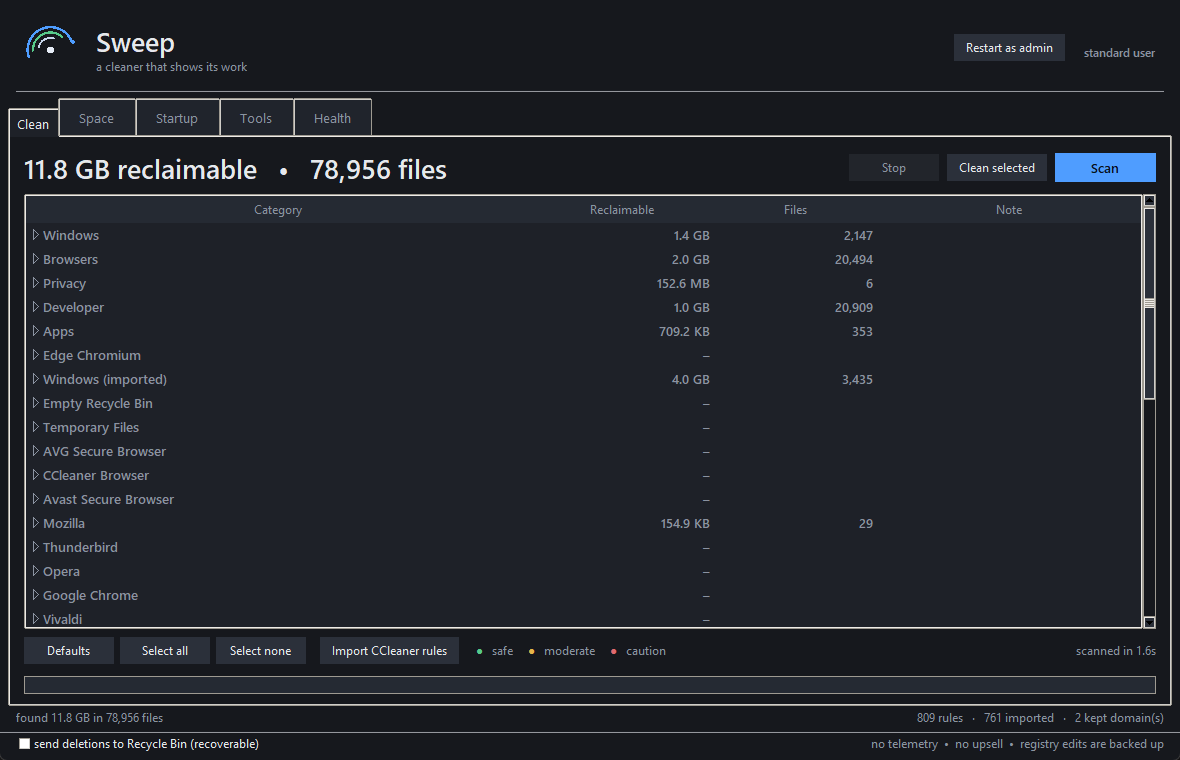
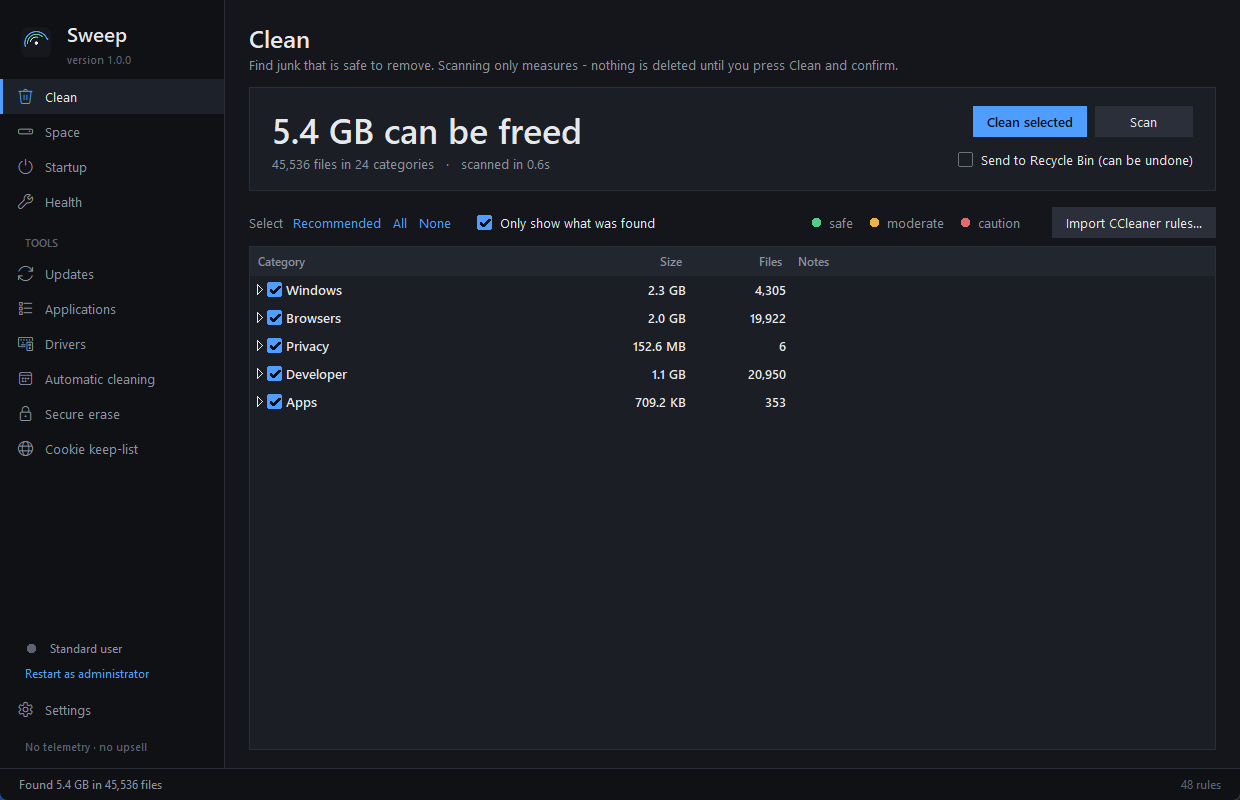
Document Sweep in the repository README and refresh its screenshots
The screenshots in Sweep/docs predated the interface redesign, so the public
README was showing a UI that no longer exists. Regenerated against the current
build (48 built-in rules, no imported ruleset).

README: Sweep added to the contents table, and the opening line no longer
implies the repository contains only the laundry projects.

diff --git a/README.md b/README.md
@@ -1,6 +1,6 @@
 # Ron's Stuff
 
-Personal laundry-monitor projects: MicroPython on Raspberry Pi Pico 2 W, Wi-Fi application updates, a shared Kauf indicator bulb, and Home Assistant integration.
+Personal laundry-monitor projects: MicroPython on Raspberry Pi Pico 2 W, Wi-Fi application updates, a shared Kauf indicator bulb, and Home Assistant integration. This repository also hosts **Sweep**, a separate Windows maintenance tool.
 
 This is a **sanitized public-source snapshot**, prepared September 13, 2026. It is separate from any private work repository. It contains no working Wi-Fi credentials, update tokens or installation addresses. The example settings must be customized before installation; do not upload these public files over an already working installation unchanged.
 
@@ -11,6 +11,11 @@ This is a **sanitized public-source snapshot**, prepared September 13, 2026. It 
 | [washer](washer/README.md) | Washer 6.0.0 application, A/B launcher, Windows Wi-Fi updater, configuration example and tests |
 | [dryer](dryer/README.md) | Dryer 5.0.0 application, A/B launcher, Windows Wi-Fi updater, configuration example and tests |
 | [shared-and-home-assistant](shared-and-home-assistant/README.md) | How the Picos, Shelly, shared Kauf bulb and HA relate; selected, sanitized HA configuration and dashboard |
+| [Sweep](Sweep/README.md) | Windows cleaner and laptop-health tool (Python/tkinter). Cleaning rules, Windows Update, drivers, secure erase, scheduled cleaning and health scoring, with a 134-test safety suite |
+
+**Sweep** is unrelated to the laundry projects — it is a general Windows maintenance
+tool that lives here to have a public home. Its own [README](Sweep/README.md)
+documents it in full.
 
 ## Current project status
 
